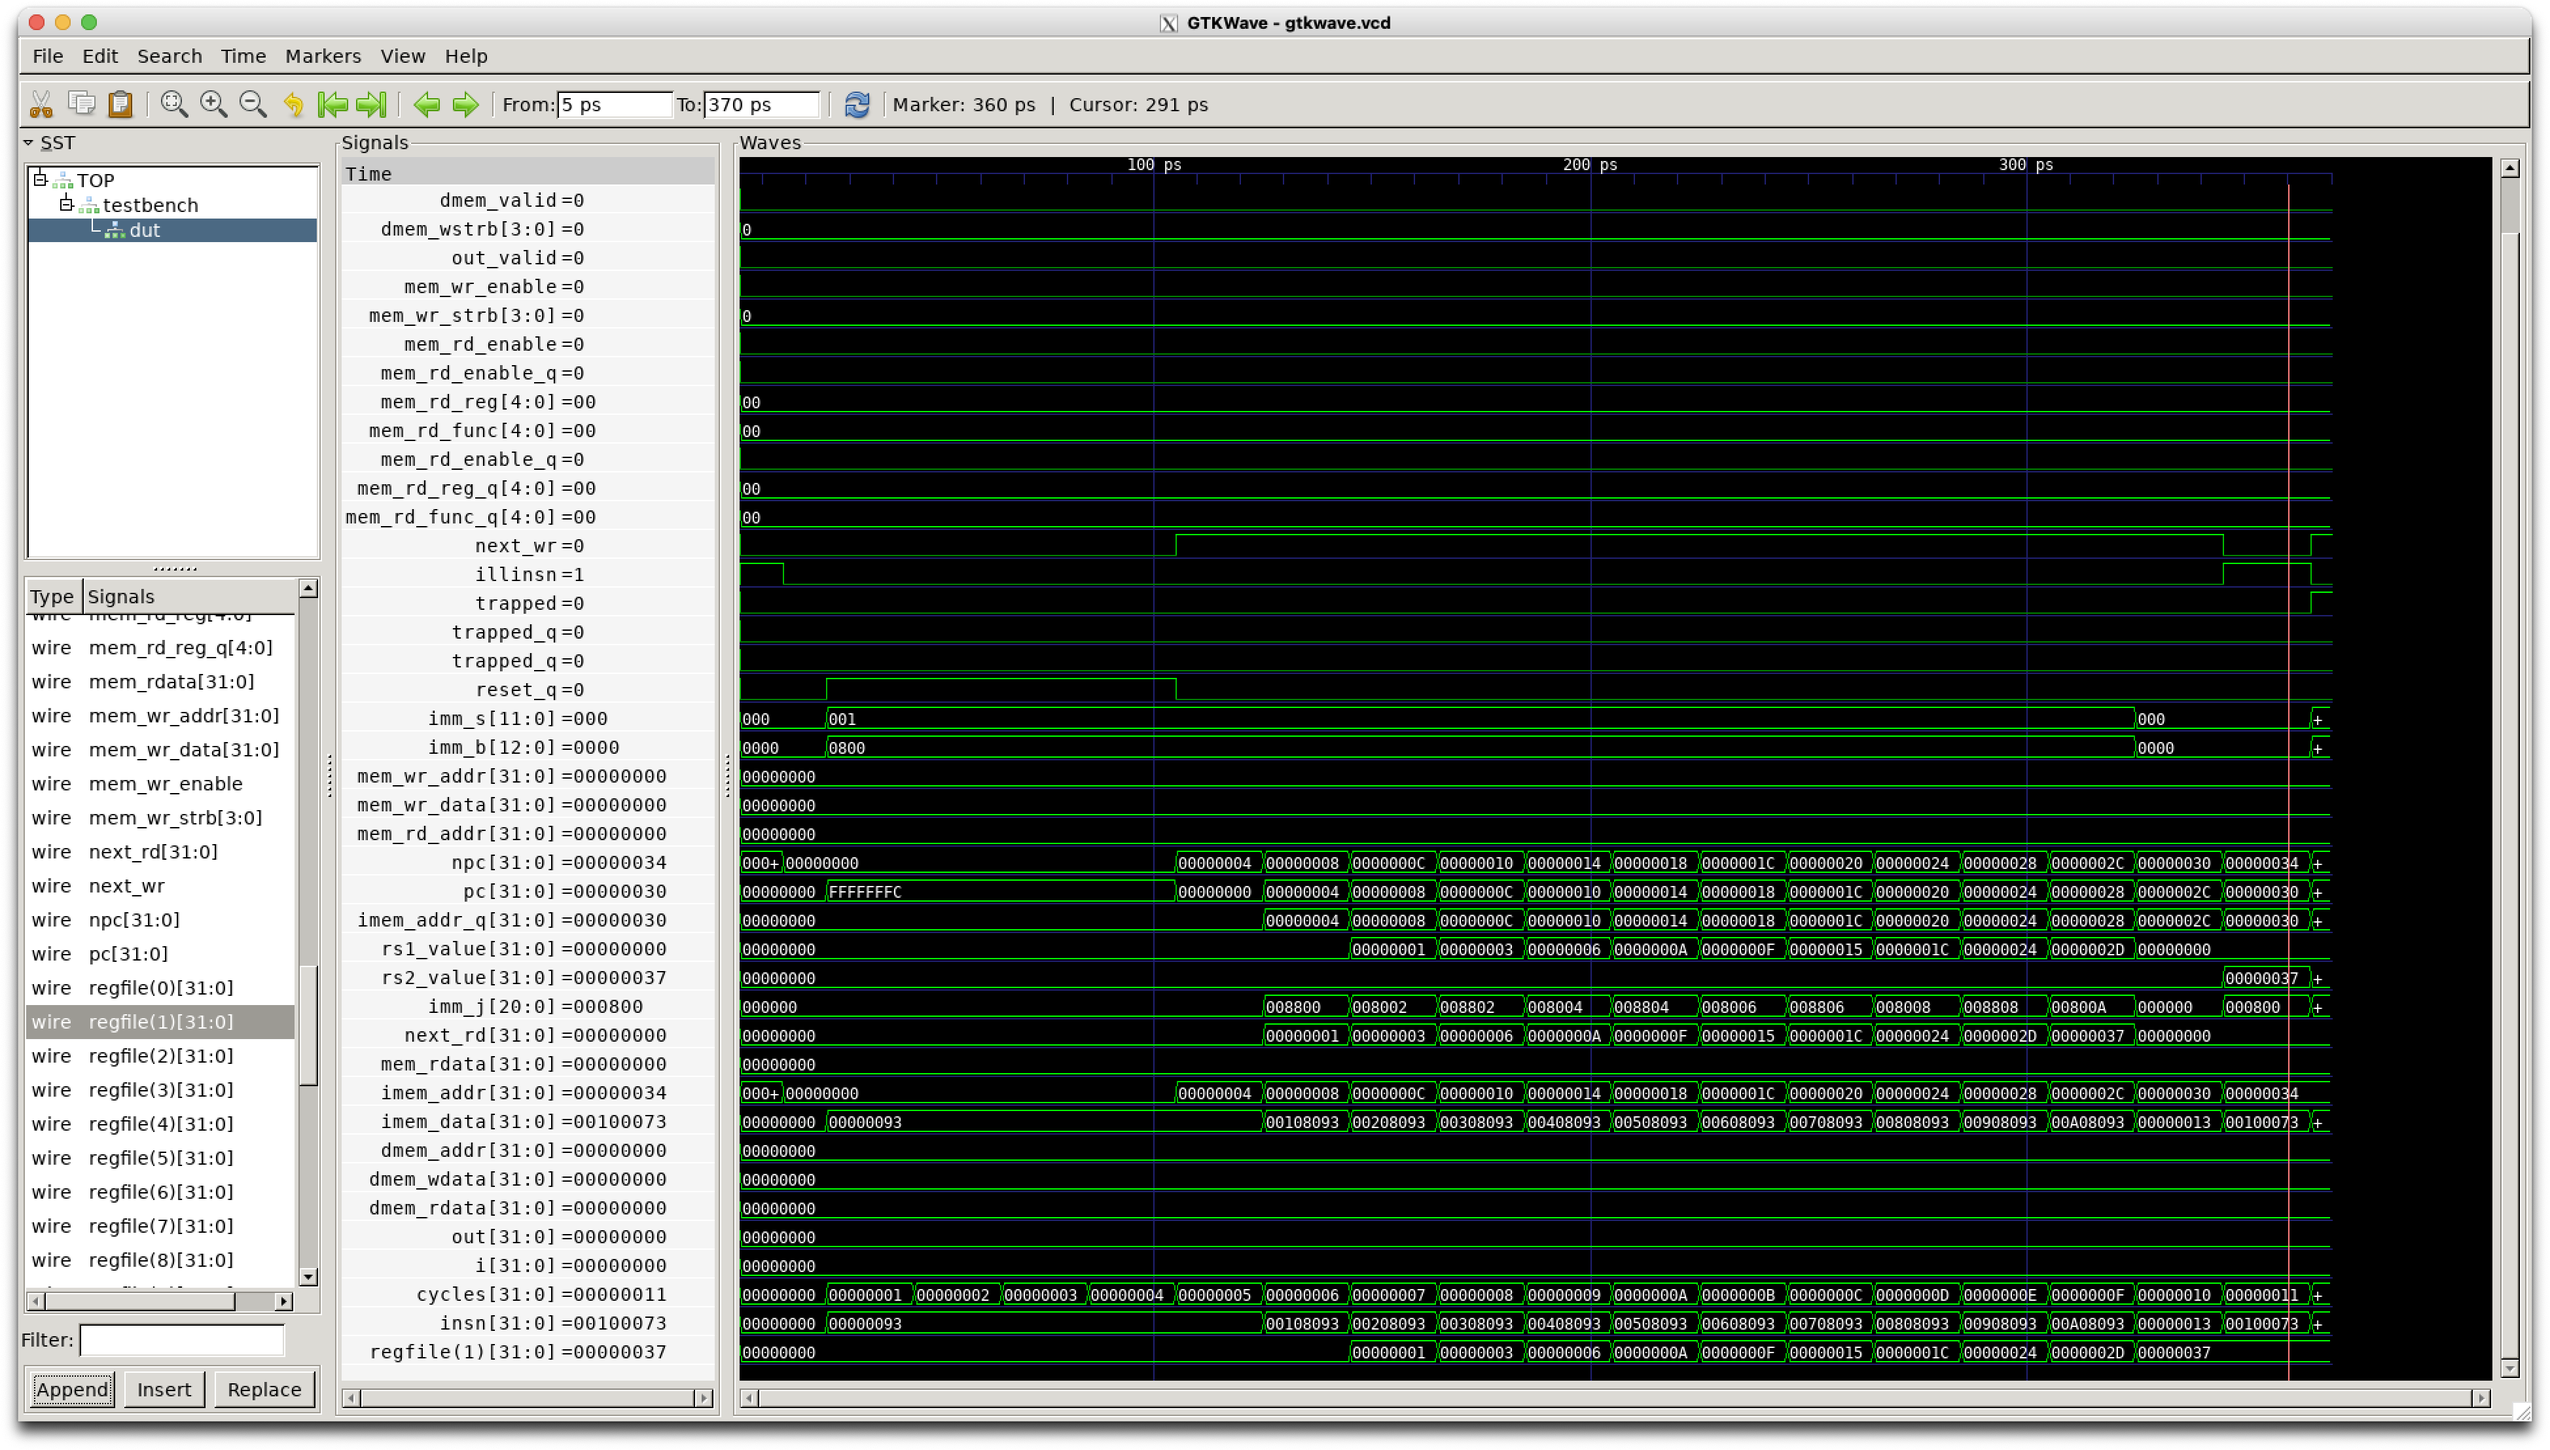
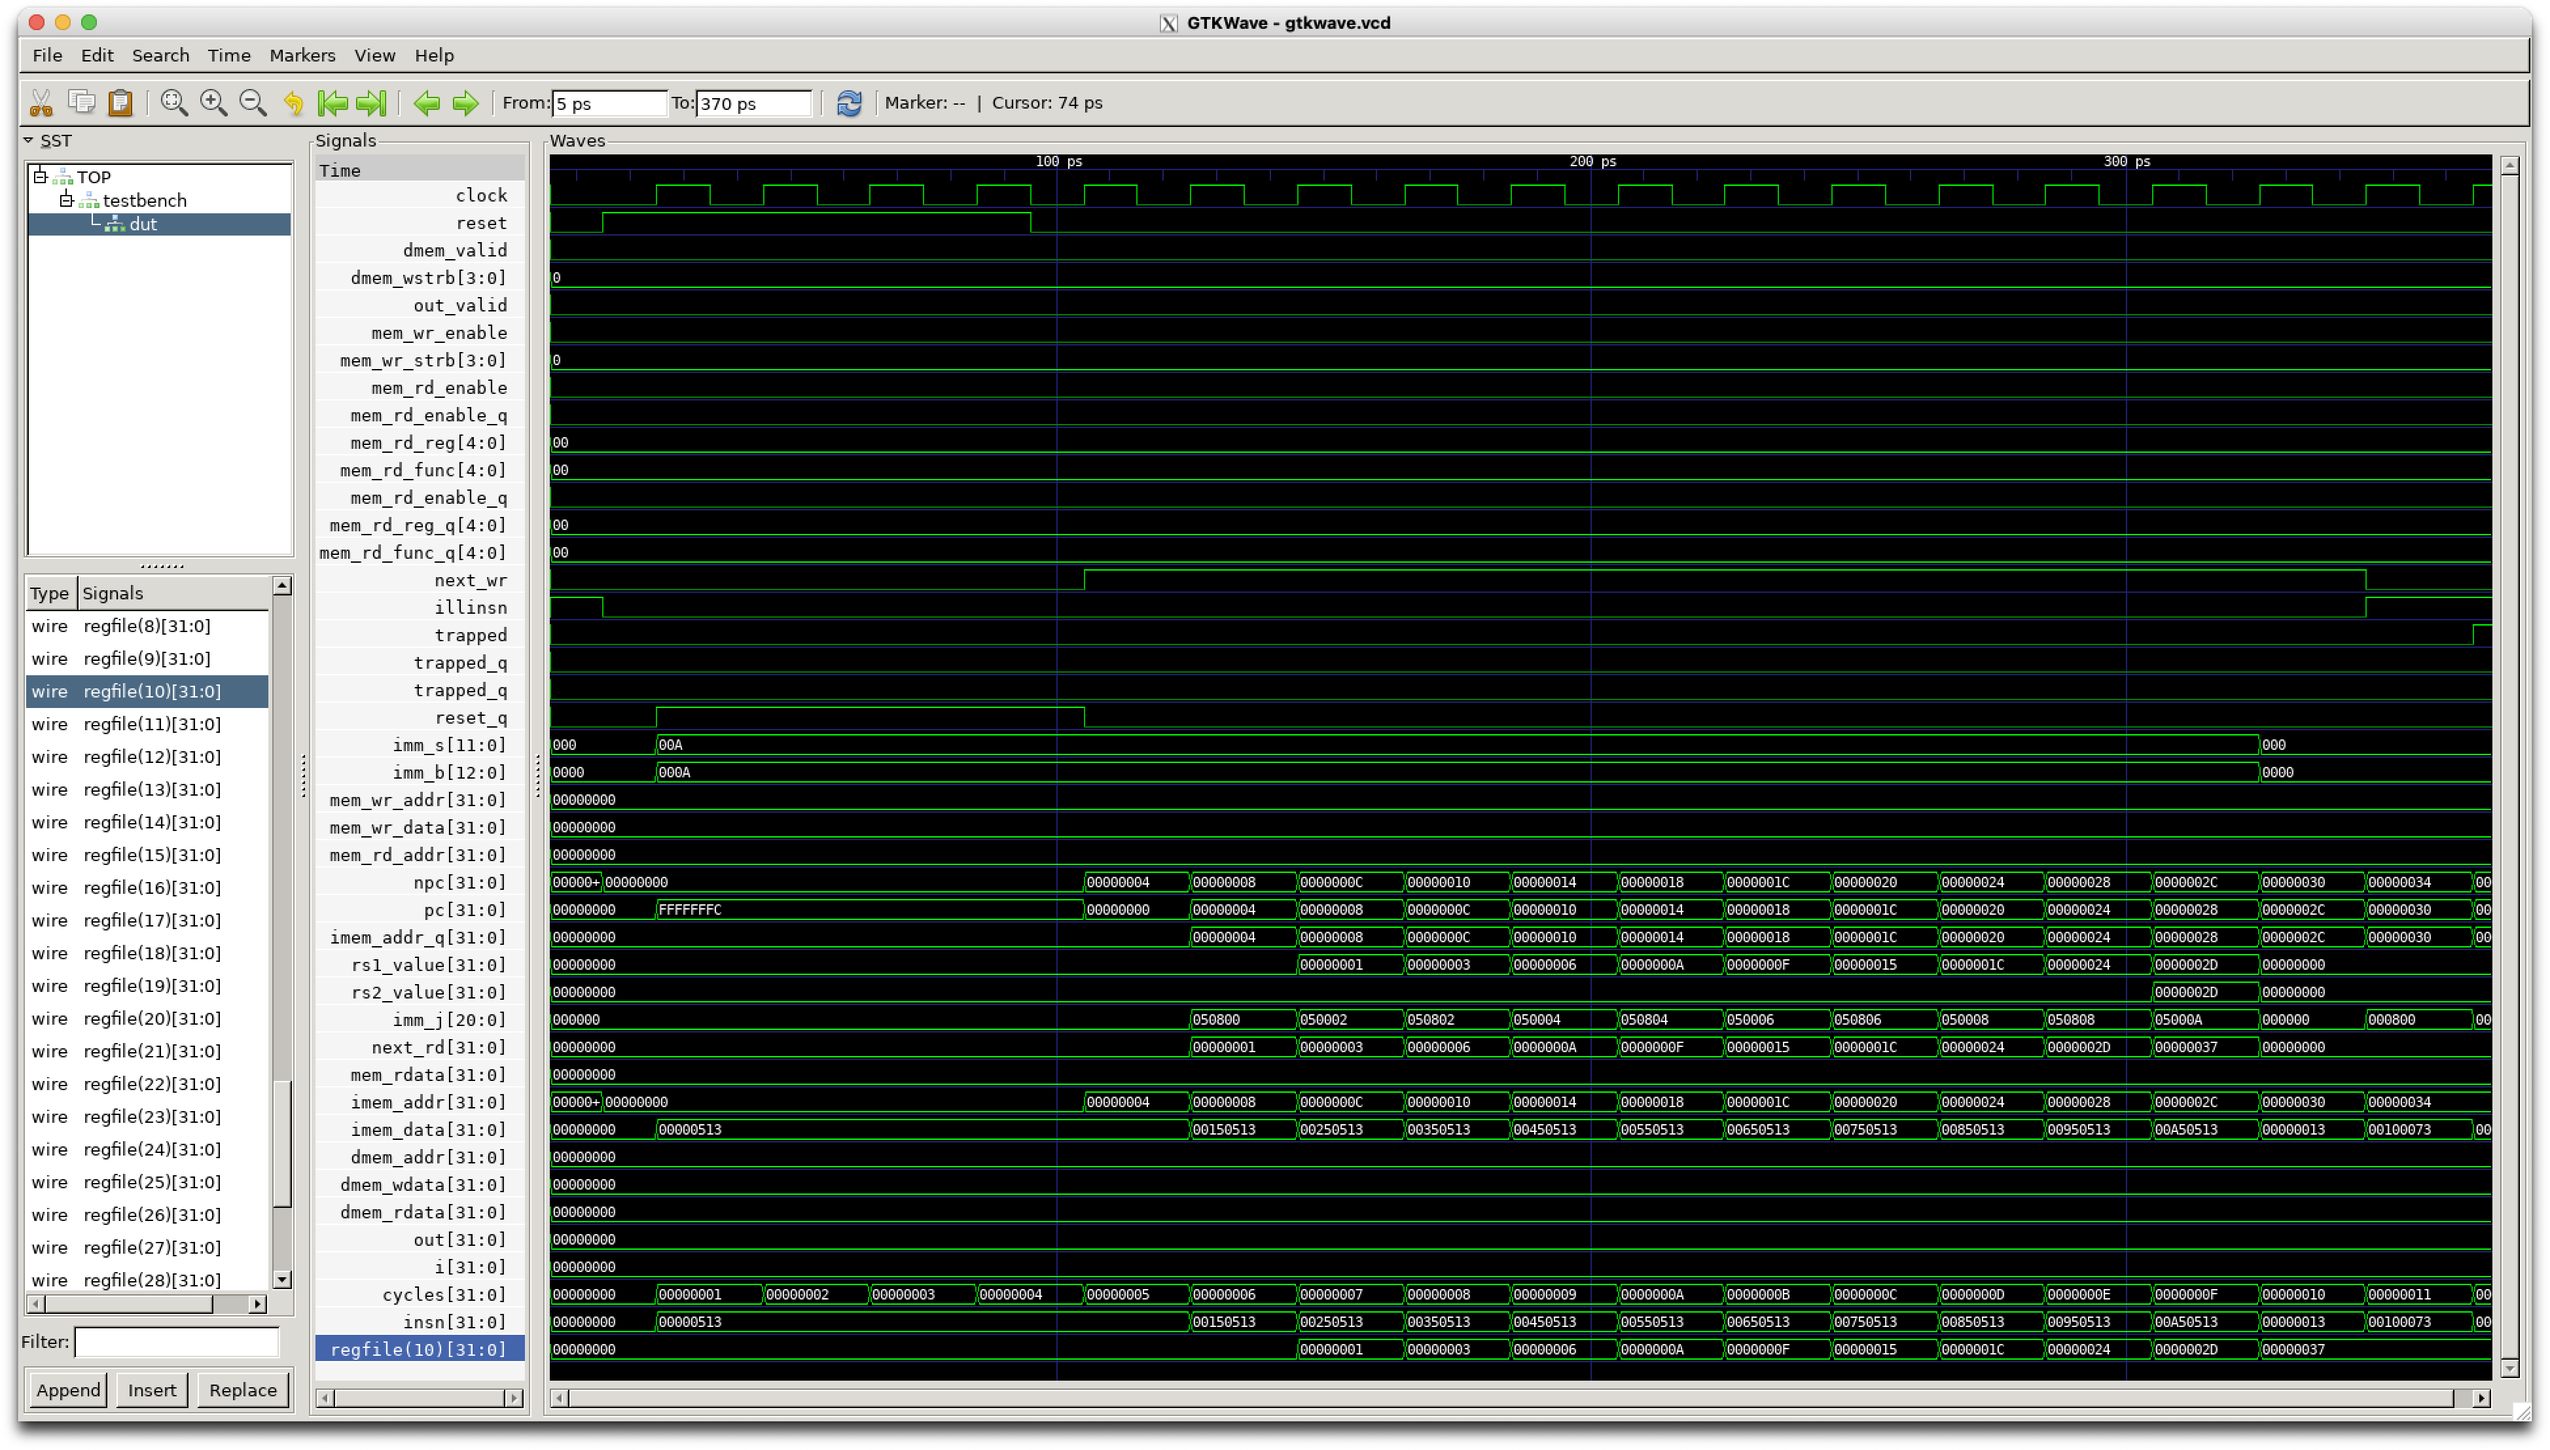
update lab5

Changed region(s): [[0.0, 0.0311, 0.9938, 0.9653]]

diff --git a/labs/lab5-pipe1/README.md b/labs/lab5-pipe1/README.md
@@ -39,7 +39,7 @@ Study the ```firmware.s``` program, listed below.
 ```
 The program simply sums the first 10 non-negative integers and the result is 55. To test this program on the single cycle processor you can just type
 ```make```. In GTKWave, you can view additional waveforms by expanding
-the "testbench" module in the top left window, clicking "dut" and then appending the desired waveforms. In the plot below, "regfile(1)[31:0]" and "insn[31:0]" were appended and you can see that the final value in regfile(1) was 0x37 as expected.
+the "testbench" module in the top left window, clicking "dut" and then appending the desired waveforms. In the plot below, "regfile(10)[31:0]" and "insn[31:0]" were appended and you can see that the final value in regfile(10) was 0x37 as expected.
 
 ![part1](part1.png "part1")
 
